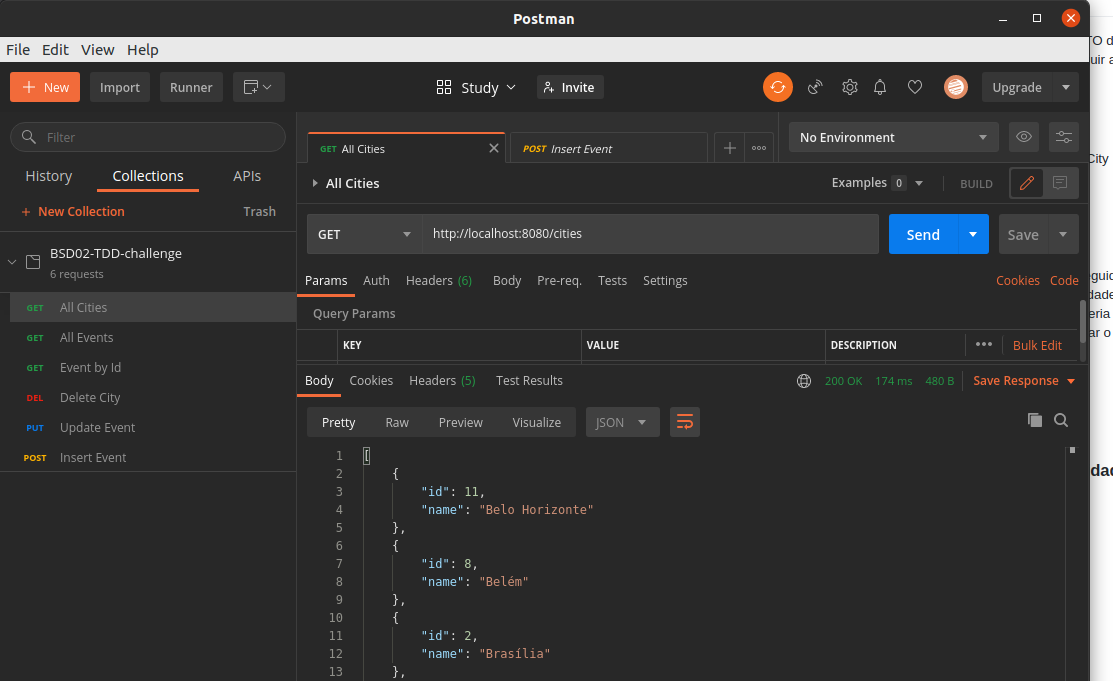
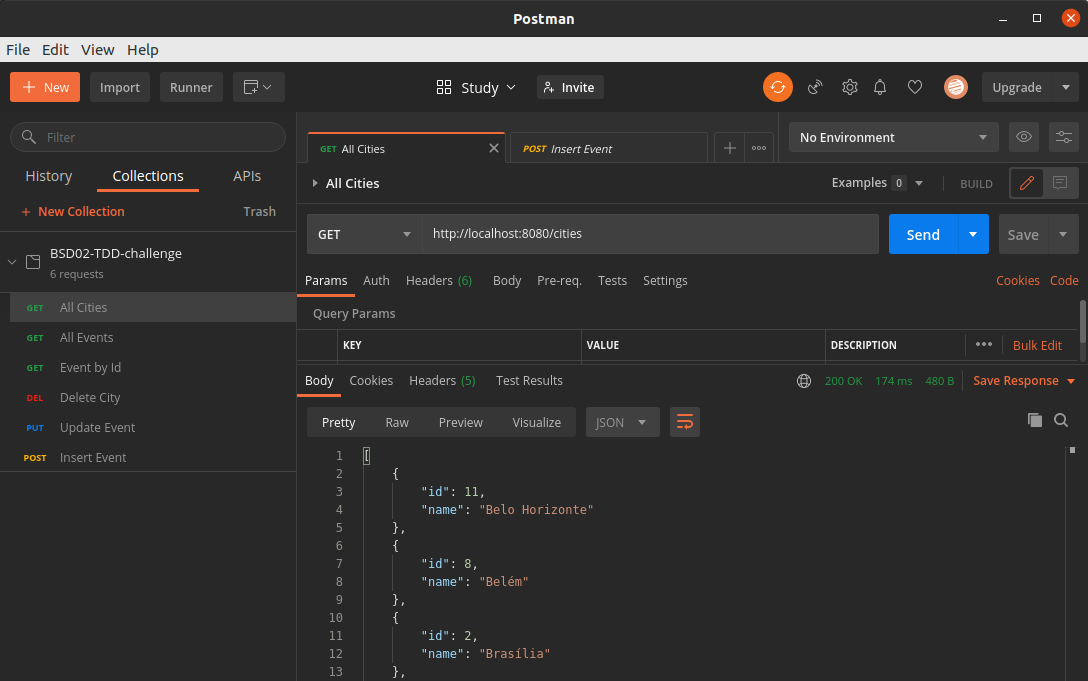
Update assets.

diff --git a/README.md b/README.md
@@ -69,7 +69,7 @@ Após analisar os testes resolvi seguir a seguinte ordem de implementação dos 
 ### 🚧 FindAll City
 Iniciei criando os pacotes repositories, em seguida o controllers e services com a classe City, como a busca não era paginada, não houve necessidade de passar argumentos ao findAll. Utilizei a variação Sort.by para dizer que a lista de cidades deveria retornar ordenadamente por nome. Fiz a checagem usando o Postman antes de passar o Teste. Não foi exigido pelo professor, porém checagem com o Postman é uma boa prática ensinada por ele.
 
-<img src="https://user-images.githubusercontent.com/83084256/134749128-008b38d0-2b90-4a22-a645-b16e85aa5cfc.png" width="250" height="200" />
+<img src="https://user-images.githubusercontent.com/83084256/134752571-774a1518-c6a7-4ac6-876e-bddf19429b0b.png" width="250" height="200" />
 
 ### 🚧 Delete City Id existente, Id inexistente e violação de integridade DB
 Com os pacotes controllers e services já criados escrevi o código voltado ao Delete, implementando a lógica sobre o tratamento de exceção ensinada pelo professor no projeto DSCatalog. Criando um pacote de exceção no controller, adicionando uma classe de Erro Padrão e um Manipulador de Exceções utilizando a annotation @ExceptionHandler e tratando o NOT FOUND e BAD REQUEST. No Services também criei o pacote de exceção tratando a violação de integridade do DB no caso de exclusões de objetos relacionados.
